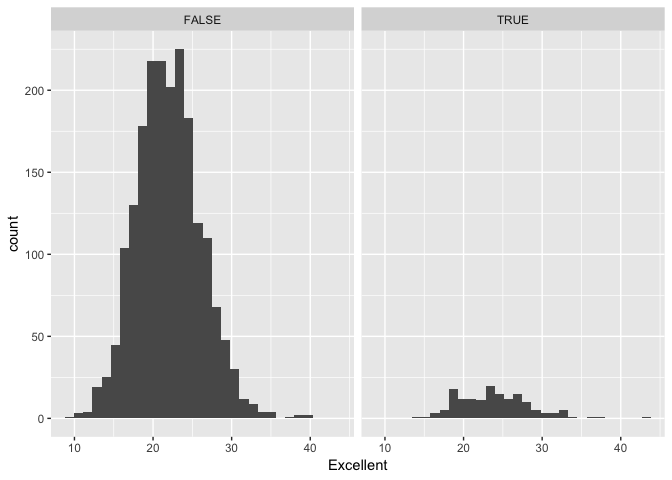
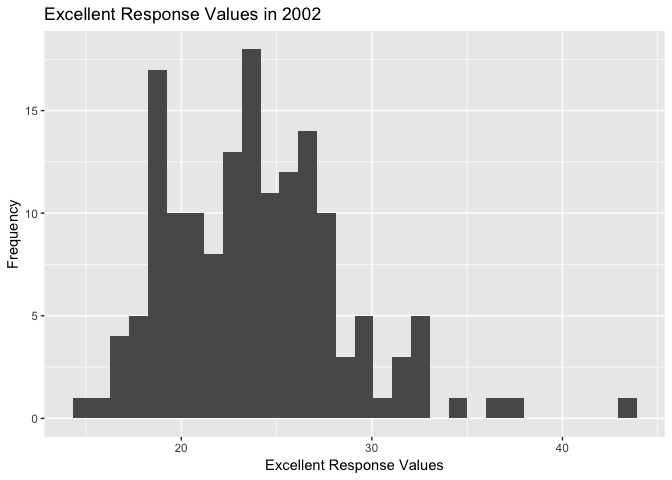
Finishing histogram and scatterplot for problem 3

diff --git a/p8105_hw2_kb2977.md b/p8105_hw2_kb2977.md
@@ -182,14 +182,49 @@ Using this dataset, do or answer the following:
 5.  Make a histogram of “Excellent” response values in the year 2002.
 
 ``` r
-ggplot(brfss_data, aes(x = Excellent)) + 
-  geom_histogram() + facet_grid(~year == "2002") 
+library(ggridges)
+```
+
+    ## 
+    ## Attaching package: 'ggridges'
+
+    ## The following object is masked from 'package:ggplot2':
+    ## 
+    ##     scale_discrete_manual
+
+``` r
+prop_exc_2002_hist = brfss_data %>% 
+  filter(year == "2002") %>% 
+  ggplot(aes(x = Excellent)) + 
+  geom_histogram() +
+  labs(
+    title = "Excellent Response Values in 2002",
+    x = "Excellent Response Values",
+    y = "Frequency"
+  )
+prop_exc_2002_hist
 ```
 
     ## `stat_bin()` using `bins = 30`. Pick better value with `binwidth`.
 
-    ## Warning: Removed 6 rows containing non-finite values (stat_bin).
+    ## Warning: Removed 2 rows containing non-finite values (stat_bin).
 
 ![](p8105_hw2_kb2977_files/figure-markdown_github/histogram-1.png)
 
 1.  Make a scatterplot showing the proportion of “Excellent” response values in New York County and Queens County (both in NY State) in each year from 2002 to 2010.
+
+``` r
+prop_exc_NY_QC_sp = brfss_data %>%
+  filter(locationdesc == "NY - Queens County" | locationdesc == "NY - New York County") %>%
+  ggplot(aes(x = year, y = Excellent, color = locationdesc)) + 
+  geom_point() +
+  labs(
+    title = "Excellent Response Values in NY County and Queens County from 2002 to 2010",
+    x = "Date in Years",
+    y = "Proportion of Excellent Response Values"
+  ) +
+  scale_color_discrete(name = "Location")
+prop_exc_NY_QC_sp
+```
+
+![](p8105_hw2_kb2977_files/figure-markdown_github/scatterplot-1.png)
